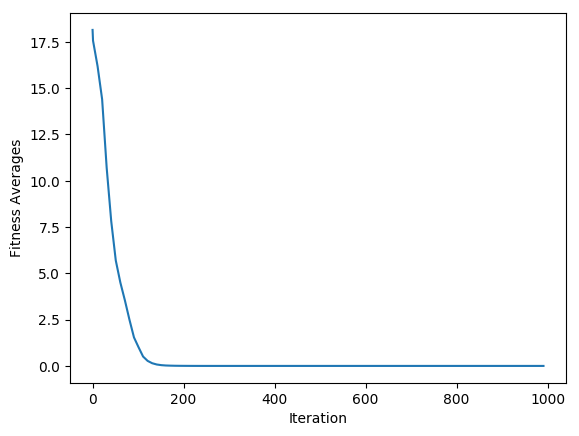
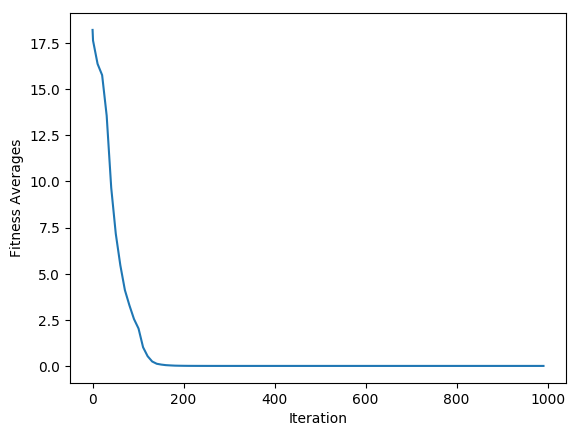
Now generating graphs for the 2nd algorithm.

diff --git a/algorithm2.py b/algorithm2.py
@@ -1,43 +1,45 @@
 #
-# algorithm1.py
+# algorithm2.py
 #
 # a. Representação das soluções (indivíduos):
 #
-#    Vetor com (ackley_n+2) números. Os primeiros "ackley_n" números codificam
-#    cada x_i da função de Ackley, na sequência vem o desvio padrão e o fitness
+#    Vetor com [(2*ackley_n)+1] números. Os primeiros ackley_n números codificam
+#    cada x_i da função de Ackley, os  ackley_n seguintes representam o passo de
+#    mutação em cada direção dimensão i e o último número representa o fitness
 #    do indivíduo.
 #
 # b. Função de Fitness:
 #
-#    A função de fitness retorna o resultado dos primeiros "ackley_n" números do
+#    A função de fitness retorna o resultado dos primeiros ackley_n números do
 #    indivíduo, os x_i, aplicados na função de Ackley.
 #
 # c. População (tamanho, inicialização, etc):
 #
 #    População de 30 indivíduos, inicializados com x_i aleatórios obedecendo
 #    a regra -15 <= x_i <= 15. O desvio padrão é inicializado aleatoriamente
-#    com números entre os argumentos "gaussian_deviation_min" e "...ation_max".
+#    com números entra os argumentos "gaussian_deviation_min" e "...ation_max".
 #
 # d. Processo de seleção:
 #
 #    Os pais são escolhidos aleatoriamente. São gerados 200 filhos, os quais,
 #    podem ser gerados por múltiplos pais, especificamente, de 2 a 15 pais.
 #
-# e. Operadores Genéticos (Recombinação e Mutação):
+# e. Operadores Genéticos (Recombinação e Mutação)
 #
 #    Recombinação: Os x_i do filho são escolhidos aleatoriamente entre os x_i
-#    dos pais que componhem a família. O sigma do filho é a média do dos pais.
+#    dos pais que componhem a família. O passo de mutação de cada dimensão é
+#    atualizado com a média dos pais.
 #
-#    Mutação: Foi implementada a mutação Uncorrelated Mutation with One Step Size,
-#    descrita na página 58 do livro do Eiben (segunda edição).
+#    Mutação: Foi implementada a mutação Uncorrelated Mutation with N Step Sizes,
+#    descrita na página 60 do livro do Eiben (segunda edição).
 #
-# f. Processo de seleção por sobrevivência:
+# f. Processo de seleção por sobrevivência
 #
 #    Processo de seleção geracional, os 30 melhores filhos permanecem.
 #
-# g. Condições de término do Algoritmo Evolucionário:
+# g. Condições de término do Algoritmo Evolucionário
 #
-#    100000 iterações (número escolhido empiricamente).
+#    Um milhão de iterações (por hora, número escolhido arbitrariamente).
 #
 
 
@@ -52,15 +54,17 @@ Parameters.
 '''
 
 individuals_count = 30
-childs_count = 100
+childs_count = 200
 
 ackley_n = 30
 ackley_x_min = -15
 ackley_x_max =  15
 
-gaussian_deviation_min = 0.00000000000000000001
+gaussian_deviation_min = 0.0001
 gaussian_deviation_max = 12
-learning_rate = 1/math.sqrt(individuals_count)
+
+learning_rate = 1/math.sqrt(2*math.sqrt(individuals_count))
+learning_rate_l = 1/math.sqrt(2*individuals_count)
 
 max_iteration_count = 1000
 
@@ -115,16 +119,22 @@ def fitness(individual):
 
 
 '''
-Generates a random individual. An individual is represented as a list
-containing (ackley_n+2) floats. The first "ackley_n" numbers are the x_i, the
-last two represent the individual's mutation step size (std deviation) and fitness.
+Generates a random individual. The individuals are represented as lists of
+floats, composed by: the first "ackley_n" numbers are the solution vector,
+the following "ackley_n" values are the mutation step size in each  direction
+and then a single number representing the individual fitness.
 '''
 
 def generateIndividual():
 
-    x_values = [random.uniform(ackley_x_min, ackley_x_max) for _ in range(ackley_n)]
-    step_size = random.uniform(gaussian_deviation_min, gaussian_deviation_max)
-    individual = x_values + [step_size, fitness(x_values)]
+    min = gaussian_deviation_min
+    max = gaussian_deviation_max
+
+    x_vals = [random.uniform(ackley_x_min, ackley_x_max) for _ in range(ackley_n)]
+    sigma_vals =  [random.uniform(min, max) for _ in range(ackley_n)]
+
+    individual = x_vals + sigma_vals + [0]
+    individual[-1] = fitness(individual)
 
     return individual
 
@@ -168,7 +178,7 @@ for iteration in range(max_iteration_count):
     Print the current iteration and the best fitness found.
     '''
 
-    print("{:6.0f}".format(iteration+1) + " " + str(solution[-1]))
+    print("{:7.0f}".format(iteration+1) + " " + str(solution[-1]))
 
     '''
     Parents selection & Recombination. We adopt a global recombination strategy
@@ -176,7 +186,7 @@ for iteration in range(max_iteration_count):
     recombination for the strategy parameters. So, basically, each family can
     have multiple parents generating a child whose alleles [x1...xi] are
     selected randomically from their parents and the strategy parameters are
-    averages from the parents.
+    averaged.
     '''
 
     childs = []
@@ -186,36 +196,46 @@ for iteration in range(max_iteration_count):
         count = random.randint(2, (individuals_count/2))
         family = [random.choice(population) for _ in range(count)]
 
-        x_values = [random.choice(family)[k] for k in range(ackley_n)]
-        step_size = sum(a[-2] for a in family)/count
-        child = x_values + [step_size, fitness(x_values)]
+        x_vals = [random.choice(family)[k] for k in range(ackley_n)]
+        sigma_vals = [(sum(a[k+ackley_n] for a in family)/count) for k in range(ackley_n)]
+
+        child = x_vals + sigma_vals + [0]
+        child[-1] = fitness(child)
 
         childs.append(child)
 
     '''
-    Mutate childs using the Uncorrelated Mutation With One Step Size.
+    Mutate childs (Uncorrelated Mutation With N Step Sizes, Eiben Pag. 60).
     '''
 
     for child in childs:
 
-        g = random.gauss(0, 1)
-        sigma = child[-2]
-        sigma_l = sigma*math.exp(learning_rate*g)
-
-        if sigma_l < gaussian_deviation_min:
-
-            sigma_l = gaussian_deviation_min
+        const_g = random.gauss(0, 1)
 
         for i in range(ackley_n):
 
             g = random.gauss(0, 1)
-            x = child[i]+(sigma_l*g)
+            a = learning_rate_l*const_g
+            b = learning_rate*g
+
+            sigma = child[i+ackley_n]
+            sigma_l = sigma*math.exp(a+b)
+
+            if sigma_l < gaussian_deviation_min:
+
+                sigma_l = gaussian_deviation_min
+
+            child[i+ackley_n] = sigma_l
+
+        for i in range(ackley_n):
+
+            g = random.gauss(0, 1)
+            x = child[i]+(child[i+ackley_n]*g)
 
             if ackley_x_min <= x and x <= ackley_x_max:
 
                 child[i] = x
 
-        child[-2] = sigma_l
         child[-1] = fitness(child)
 
     '''
@@ -270,16 +290,16 @@ plot.figure()
 plot.plot(sampled_axis, sampled_bests)
 plot.xlabel("Iteration")
 plot.ylabel("Best Fitness")
-plot.savefig("results/algorithm1-best.png", bbox_inches="tight")
+plot.savefig("results/algorithm2-best.png", bbox_inches="tight")
 
 plot.figure()
 plot.plot(sampled_axis, sampled_averages)
 plot.xlabel("Iteration")
 plot.ylabel("Fitness Averages")
-plot.savefig("results/algorithm1-averages.png", bbox_inches="tight")
+plot.savefig("results/algorithm2-averages.png", bbox_inches="tight")
 
 plot.figure()
 plot.plot(sampled_axis, sampled_deviations)
 plot.xlabel("Iteration")
 plot.ylabel("Fitness Standard Deviations")
-plot.savefig("results/algorithm1-deviations.png", bbox_inches="tight")
+plot.savefig("results/algorithm2-deviations.png", bbox_inches="tight")
